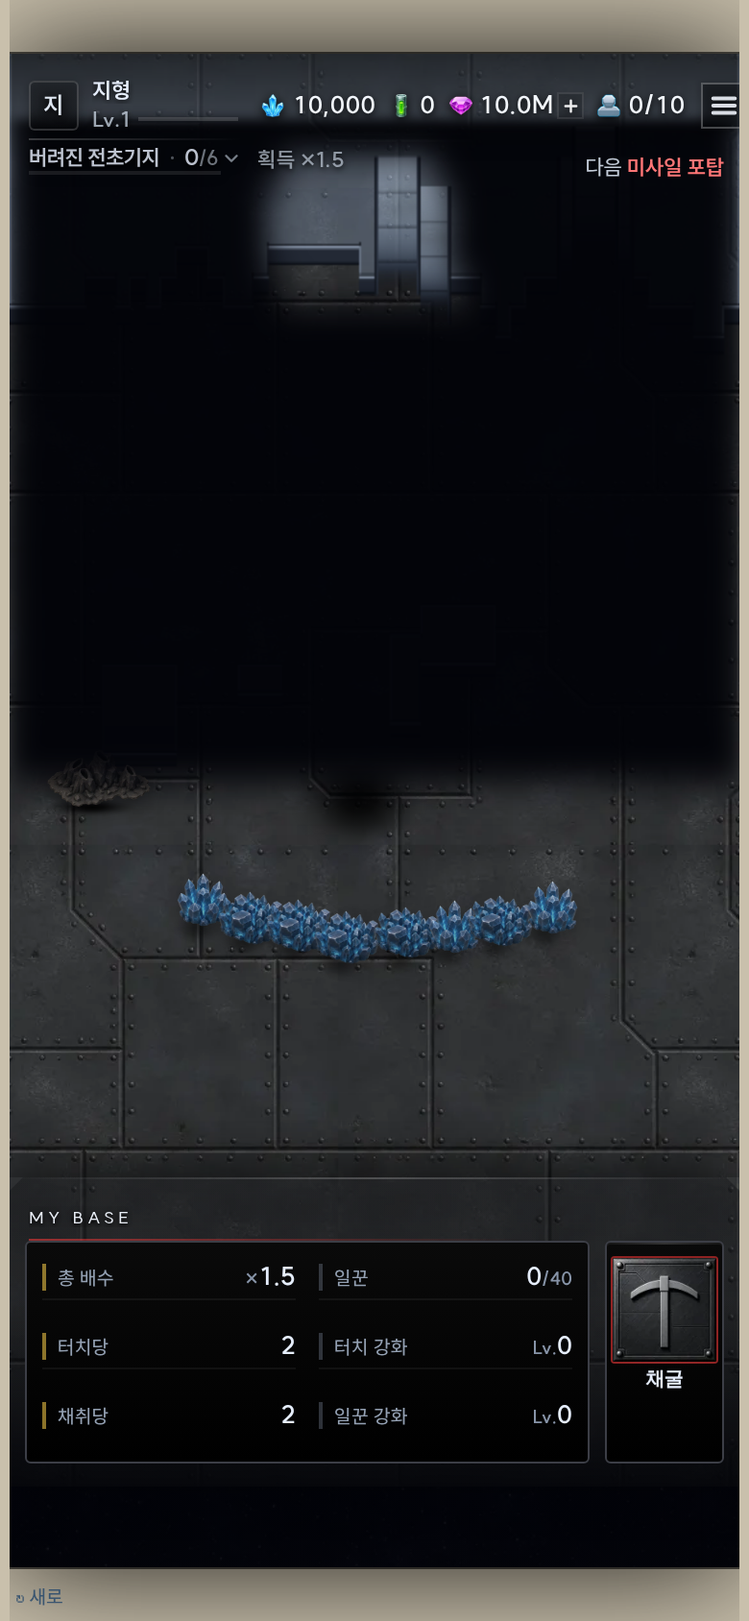
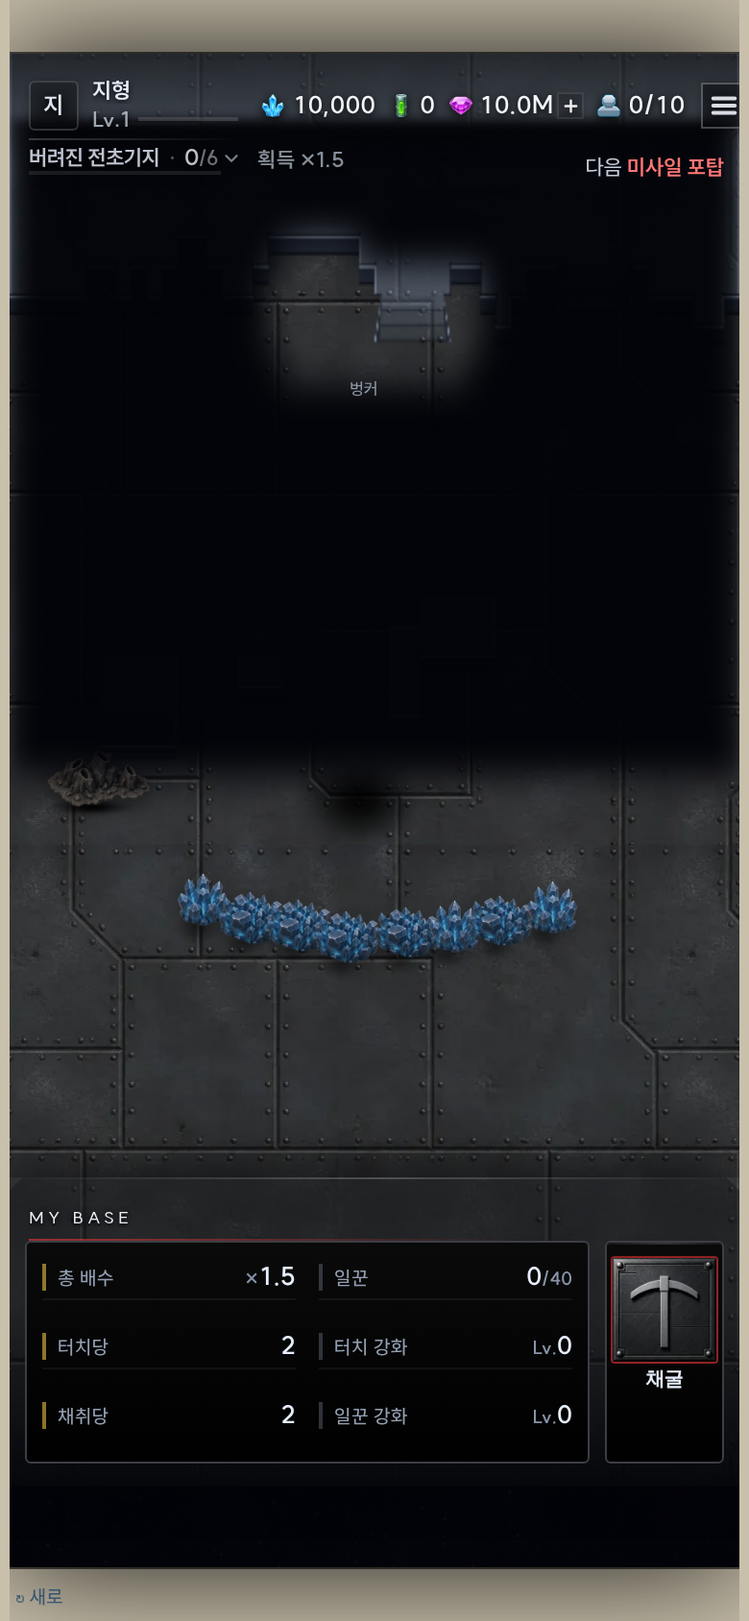
🚪 오르막을 다시 그렸다 — 「절벽에 난 틈」으로
사용자: 「오르막 디자인이 좀 별론데 … 4칸에 걸쳐서 올라가는게 아니고 1칸만에 바로」

■ 길이 4칸 → 1칸 (TERR_RAMP_H)
  입구 줄은 평평하게 고른다(base) — 고원 밑변이 계단이라 그냥 파면
  열마다 줄이 달라 옆벽이 어긋난다.

■ 그림을 절벽 선 **아래**에서 시작한다 (근본 원인)
  옛 그림은 오르막 칸의 **위** 모서리에서 시작해 고원 안으로 한 칸 올라와 있었다.
  고원과 색이 다른 것은 무엇이든 「고원에 올려놓은 상자」로 읽힌다 — 이걸 모르고
  세 번 헛돌았다(밝은 미끄럼틀 → 사다리 난간 → 흰 판).
  이제 오르막 칸의 **아래** 모서리(= 절벽 앞면이 시작될 자리)에서 시작해
  낮은 땅으로 apron + 0.9칸 내려간다.

■ 읽히게 하는 것 셋
  ① 단 셋 — 위가 밝고 아래로 어두워진다(「걸어 내려간다」의 유일한 신호)
  ② 단마다 밑의 어두운 홈 — 밝은 선을 그으면 사다리 가로대가 된다
  ③ 쐐기 옆벽 — 꼭대기는 폭 0, 아래로 벌어진다.
     비탈은 위에서 고원 높이라 벽이 없다. 폭이 일정한 띠는 밝은 평행선 둘이
     되어 사다리 난간으로 보였다.
  입구에서는 고원의 밝은 테를 걷어 내고 고원 윗면 값으로 메운다 —
  안 걷으면 밝은 선이 입구를 가로질러 「구멍에 뚜껑을 덮은」 꼴이 된다.

■ scripts/camp-ramp-pick.mjs (새 도구)
  진짜 바닥 타일 + 진짜 TERR_SKIN 값으로 오르막 안 여섯을 한 장에 붙인다.
  ⚠ 비교판은 게임과 같은 겹치기라야 한다 — 바닥과 지형을 한 캔버스에 그리면
  clearRect 가 바닥까지 지워 비탈이 검은 구멍으로 보인다.
  1차 비교판이 그래서 통째로 거짓이었고, 그 판으로 고른 안을 버렸다.

■ 스모크 — 주입 시험으로 두 문지기가 무는 것을 확인
  · TERR_RAMP_H 를 4 로 되돌림  → ✘ 「오르막이 4칸이다(tx=7)」
  · 입구 평탄화 제거            → ✘ 「입구가 들쭉날쭉하다(tx=22 줄 23 ≠ 22)」
  칸 수는 글자 그대로 1 로 잰다 — TERR_RAMP_H 로 재면 그 상수를 되돌려도
  같이 늘어나 늘 통과한다(자기 자신을 기준으로 재는 덫).
  전체 스모크 통과(lobby/game/sandbox/duo).

Claude-Session: https://claude.ai/code/session_01EtmtaHFCqqHiZ1fmbN5ZoQ

Changed region(s): [[0.3385, 0.0924, 0.6462, 0.2464]]

diff --git a/js/24-terrain.js b/js/24-terrain.js
@@ -41,10 +41,14 @@ const TERR_FACE_K   = 0.62;  // 절벽 앞면 높이 = 칸 높이 × 이 값
 const TERR_PLATEAU_Y1 = -0.13;
 // 🚪 램프 — 고원으로 올라가는 길. ⛔ 빼지 말 것: 3단계에서 절벽이 길을 막으면 램프가 유일한 통로다.
 const TERR_RAMP_W  = 5;      // 램프 폭(칸) — ⚠ 3 칸이면 지도 축척에서 **사다리**로 보인다(실측)
-const TERR_RAMP_H  = 4;      // 램프 길이(칸) — ⚠ 2~3 칸이면 비탈이 아니라 「끊긴 자리」로 보인다(실측)
+/* 🚪 **오르막은 한 칸 만에 올라간다**(2026-09-11 사용자 확정: 「4칸에 걸쳐서가 아니고 1칸만에 바로」).
+ *   ⭐ 그래서 길이가 아니라 **모양**으로 읽힌다 — 위가 좁고 아래로 벌어지는 **사다리꼴**이다(입구가 열린다).
+ *   ⛔ 여러 칸으로 늘려 「긴 비탈」로 되돌리지 말 것 — 고원을 그만큼 파먹어 적 기지 자리가 줄어든다. */
+const TERR_RAMP_H  = 1;      // 램프 길이(칸)
+const TERR_RAMP_TAPER = 0.10;   // 입구가 아래로 조금 벌어진다 — ⚠ 크면 「미끄럼틀」로 보인다(실측 0.17)
 const TERR_RAMP_N  = 2;      // 램프 개수
 const TERR_RAMP_GAP = 12;    // 램프끼리 최소 거리(칸) — ⚠ 없으면 둘이 붙어 나 「넓은 오르막 하나」로 보인다(실측)
-const TERR_RAMP_STEPS = 3;   // 비탈에 긋는 계단 선 수 — 작은 크기에서 「올라간다」를 읽게 하는 신호
+const TERR_RAMP_STEPS = 3;   // 비탈의 **단** 수 — 작은 크기에서 「걸어 내려간다」를 읽게 하는 유일한 신호
 /* 🧱 벽 — **적 기지와 내 격자 사이의 통로에만** 둔다.
  *   ⛔ 내 격자(techY0 = 0.18 아래)에는 절대 두지 말 것 — 건물을 짓는 자리다.
  *   ⛔ 적 기지 줄(CAMP_FOE_ROW · 맨 아래가 tower1 = +0.02)과 겹치지 말 것 —
@@ -101,9 +105,15 @@ function campTerrGen(dg, seed){
       if(rampAt.every(p => Math.abs(p - c0) >= TERR_RAMP_GAP)){ cx = c0; break; } }
     if(cx < 0) continue;                    // 자리를 못 찾으면 그냥 하나 덜 둔다(붙여 두지 않는다)
     rampAt.push(cx);
+    /* 📏 **오르막 자리는 고원 밑변을 평평하게 고른다.** 가장자리는 계단이라 열마다 밑변이 다른데,
+     *   거기 그대로 파면 비탈이 들쭉날쭉해 「입구」로 안 읽힌다. 가장 낮은 줄까지 채워 한 줄로 맞춘다. */
+    let base = -1;
     for(let tx = cx; tx < cx + TERR_RAMP_W && tx < C; tx++){
       let ty = py1; while(ty > py0 && !T.h[ty * C + tx]) ty--;              // 그 열의 실제 고원 밑변
-      for(let k = 0; k < TERR_RAMP_H && ty - k >= py0; k++){ const i2 = (ty - k) * C + tx; T.h[i2] = 1; T.r[i2] = 1; } } }
+      if(ty > base) base = ty; }
+    for(let tx = cx; tx < cx + TERR_RAMP_W && tx < C; tx++){
+      for(let ty = py0; ty <= base; ty++) T.h[ty * C + tx] = 1;             // 밑변을 그 줄까지 채운다
+      for(let k = 0; k < TERR_RAMP_H && base - k >= py0; k++){ const i2 = (base - k) * C + tx; T.r[i2] = 1; } } }
   // 🧱 벽 — 통로에 덩어리 몇 개
   const wy0 = Math.max(py1 + 2, campTerrRowAt(TERR_WALL_ZONE.y0)), wy1 = Math.min(W - 2, campTerrRowAt(TERR_WALL_ZONE.y1));
   const blobs = [];
@@ -293,36 +303,53 @@ function campTerrBake(){
     x.fillStyle = S.face; x.fillRect(tx * px, (ty + 1) * px, px, face);
     x.fillStyle = S.lip;  x.fillRect(tx * px, (ty + 1) * px, px, lip);                       // 윗입술 — 「여기서 떨어진다」
     x.fillStyle = S.line; x.fillRect(tx * px, (ty + 1) * px + face - lip, px, lip); }        // 발치 그늘
-  /* 🚪 **오르막** — 절벽을 파고든 비탈.
-   *   ⛔ 「절벽만 안 그리기」로 두지 말 것 — 끊긴 자리가 **구멍**으로 보인다(2026-09-11 실측 · 확대 사진).
-   *   ⭐ 읽히게 하는 것은 셋이다: ① 위가 밝고 아래로 **사라지는 면**(내려간다) ② **계단 선**
-   *     (작은 크기에서 「걸어 올라간다」를 말하는 유일한 신호) ③ **옆벽**(절벽을 파고들었다는 증거).
-   *   ⚠ 고원 칠을 먼저 **걷어 낸다**(clearRect) — 안 걷으면 비탈 아래쪽이 고원 색으로 남아 평평해 보인다. */
-  { const S = campTerrSkin('ramp'), apron = Math.round(px * TERR_FACE_K), lip = Math.max(1, px * 0.10);
-    const isR = (tx2, ty2) => tx2 >= 0 && tx2 < C && ty2 >= 0 && ty2 < W && T.r[ty2 * C + tx2] > 0;
+  /* 🚪 **오르막** — 절벽에 난 **틈**이다. 고원 끝에서 낮은 땅으로 내려간다.
+   *   ⛔⛔ 절벽 선 **위**(고원 안)에서 그리기 시작하지 말 것 — 고원과 다른 것은 무엇이든
+   *     「고원에 올려놓은 상자」로 읽힌다(2026-09-11 실측 · `scripts/camp-ramp-pick.mjs` 1차 비교판).
+   *     그래서 그림은 **오르막 칸의 아래 모서리**(= 절벽 앞면이 시작될 자리)에서 시작한다.
+   *   ⭐ 읽히게 하는 것은 셋이다: ① **단 셋**(위가 밝고 아래로 어두워진다 — 「걸어 내려간다」를 말하는
+   *     유일한 신호) ② 단마다 밑에 **어두운 홈**(밝은 선을 쓰면 사다리 가로대가 된다)
+   *     ③ **쐐기 옆벽**(위는 폭 0 · 아래로 벌어진다 — 고원을 깎아 낸 자국).
+   *   ⚠ 고원의 **테(밝은 입술)를 입구에서 걷어 낸다** — 안 걷으면 밝은 선이 입구를 가로질러 막아
+   *     「구멍에 뚜껑을 덮은」 꼴이 된다. 걷은 자리는 고원 윗면 값으로 메워 고원이 입구까지 이어지게 한다. */
+  { const SH = campTerrSkin('hi');
+    const apron = Math.round(px * TERR_FACE_K), lip = Math.max(1, px * 0.09);
+    const eUp = Math.max(2, Math.round(px * 0.12)) + 1;   // 오토타일 테 두께(campTerrSheet 의 E)
+    /* 오르막은 **가로로 붙은 열 묶음**이 하나다 — 열마다 따로 그리면 옆벽이 열마다 선다. */
+    const gs = [];
     for(let tx = 0; tx < C; tx++){
       let t0 = -1, b0 = -1;
       for(let ty = 0; ty < W; ty++) if(T.r[ty * C + tx]){ if(t0 < 0) t0 = ty; b0 = ty; }
       if(t0 < 0) continue;
-      const X = tx * px, Y = t0 * px, HH = (b0 + 1 - t0) * px + apron;
-      x.clearRect(X, Y, px, HH);
-      /* 위는 고원 색, 가운데부터 **절벽 면 색으로 어두워지다** 아래에서 사라진다 = 내려가는 비탈.
-       *   ⛔ 위아래를 다 밝게 두지 말 것 — 평평한 판으로 보인다(실측: 첫 시도가 그랬다). */
-      const g = x.createLinearGradient(0, Y, 0, Y + HH);
-      g.addColorStop(0, S.edge); g.addColorStop(0.38, S.top);
-      g.addColorStop(0.80, S.face); g.addColorStop(1, 'rgba(0,0,0,0)');
-      x.fillStyle = g; x.fillRect(X, Y, px, HH);
-      /* 🪜 계단 — **어두운 홈**이다(밝은 선을 그으면 사다리로 보인다 · 2026-09-11 실측). */
-      x.fillStyle = S.line;
-      for(let k = 1; k <= TERR_RAMP_STEPS; k++){
-        x.globalAlpha = 0.30 + 0.30 * (k / TERR_RAMP_STEPS);           // 아래 계단이 진하다 = 그늘이 깊다
-        x.fillRect(X, Y + (HH * k) / (TERR_RAMP_STEPS + 1), px, lip * 0.8); }
-      x.globalAlpha = 1;
-      // 옆벽 — 절벽 면과 **같은 색**이라야 「파고든 홈」으로 읽힌다(밝은 테는 사다리 난간이 된다)
-      if(!isR(tx - 1, t0)) { x.fillStyle = S.face; x.fillRect(X, Y, lip * 2.2, HH);
-                             x.fillStyle = S.line; x.fillRect(X, Y, lip * 0.8, HH); }
-      if(!isR(tx + 1, t0)) { x.fillStyle = S.face; x.fillRect(X + px - lip * 2.2, Y, lip * 2.2, HH);
-                             x.fillStyle = S.line; x.fillRect(X + px - lip * 0.8, Y, lip * 0.8, HH); } } }
+      const g0 = gs[gs.length - 1];
+      if(g0 && g0.x1 === tx - 1 && g0.t === t0 && g0.b === b0) g0.x1 = tx;
+      else gs.push({ x0:tx, x1:tx, t:t0, b:b0 }); }
+    for(const g of gs){
+      const X0 = g.x0 * px, X1 = (g.x1 + 1) * px;
+      const Y = (g.b + 1) * px, HH = apron + px * 0.9;    // 절벽 앞면 자리 + 낮은 땅으로 반 칸 더
+      const ins = (X1 - X0) * TERR_RAMP_TAPER, wq = Math.max(2, px * 0.34);
+      x.save();
+      x.beginPath();                                      // 위는 좁고(고원과 만나는 목) 아래로 벌어진다
+      x.moveTo(X0 + ins, Y - eUp); x.lineTo(X1 - ins, Y - eUp);
+      x.lineTo(X1, Y + HH); x.lineTo(X0, Y + HH); x.closePath();
+      x.clip();
+      x.clearRect(X0, Y - eUp, X1 - X0, HH + eUp);
+      x.fillStyle = SH.top; x.fillRect(X0, Y - eUp, X1 - X0, eUp);   // 고원이 입구까지 이어진다
+      for(let k = 0; k < TERR_RAMP_STEPS; k++){           // 🪜 단 — 위가 밝고 아래로 어두워진다
+        const t0 = k / TERR_RAMP_STEPS, t1 = (k + 1) / TERR_RAMP_STEPS;
+        x.fillStyle = 'rgba(140,162,196,' + (0.26 - 0.08 * k).toFixed(3) + ')';
+        x.fillRect(X0, Y + HH * t0, X1 - X0, HH * (t1 - t0));
+        x.fillStyle = 'rgba(8,11,17,.46)';                // 단 밑의 그늘 홈
+        x.fillRect(X0, Y + HH * t1 - lip * 0.85, X1 - X0, lip * 0.85); }
+      x.restore();
+      const wedge = (w2, col) => {                        // 옆벽 — 꼭대기는 폭 0, 아래로 벌어진다
+        for(const left of [true, false]){
+          const d = left ? 1 : -1, xa = left ? X0 + ins : X1 - ins, xb = left ? X0 : X1;
+          x.fillStyle = col;
+          x.beginPath(); x.moveTo(xa, Y - eUp); x.lineTo(xb + d * w2, Y + HH); x.lineTo(xb, Y + HH);
+          x.closePath(); x.fill(); } };
+      wedge(wq, SH.face);                                 // 깎인 면
+      wedge(lip * 0.9, SH.lip); } }                       // 윗모서리 — 빛을 받는다
   const wallAt = (tx, ty) => inB(tx, ty) && T.w[ty * C + tx] > 0;
   layer(wallAt, sheets.wall);
   // 🧱 벽도 앞면을 갖는다 — 평평한 판은 「못 지나간다」로 안 읽힌다(2026-09-10 실측)

diff --git a/test/smoke.js b/test/smoke.js
@@ -7946,16 +7946,21 @@ async function groupLobby(){
         assert(ramp>=0,'램프가 통로가 아니다 — 올라갈 길이 사라진다');
         /* 🚪 **오르막은 절벽을 「잇는」 비탈이다**(2026-09-11 사용자: 「언덕으로 올라가는 오르막도 만들어야해」).
          *   ⛔ 고원 한가운데 뚫린 구멍이 되면 안 된다 — 아래 끝이 **저지에 닿아야** 올라가는 길이다.
-         *   ⛔ 짧게(2~3칸) 되돌리지 말 것: 지도 축척에서 비탈이 아니라 「끊긴 자리」로 보인다(실측). */
-        { const cols=[];
+         *   📏 **한 칸 만에 올라간다**(2026-09-11 사용자 확정: 「4칸에 걸쳐서 올라가는게 아니고 1칸만에」).
+         *     ⚠ 아래 1 은 **글자 그대로 쓴 설계값**이다 — `TERR_RAMP_H` 로 재면 그 상수를 4 로 되돌려도
+         *     같이 늘어나 늘 통과한다(자기 자신을 기준으로 재는 덫 · 2026-09-11 주입 시험).
+         *   🚪 그리고 **입구는 평평하다** — 그림이 열 묶음 하나를 사다리꼴 + 쐐기 옆벽으로 그리므로
+         *     열마다 줄이 다르면 옆벽이 계단처럼 어긋난다(`campTerrGen` 이 base 로 고른다). */
+        { const cols=[], botOf={};
           for(let tx=0;tx<C2;tx++){ let run=0, bot=-1, runs=0;
             for(let ty=0;ty<W2;ty++){ if(T.r[ty*C2+tx]){ run++; bot=ty; } else { if(run){ runs++; } run=0; } }
             if(run) runs++;
             if(bot<0) continue;
-            cols.push(tx);
+            cols.push(tx); botOf[tx]=bot;
             assert(runs===1,'한 열에 오르막이 '+runs+'토막이다(tx='+tx+') — 비탈은 이어져야 한다');
             let len=0; for(let ty=bot;ty>=0&&T.r[ty*C2+tx];ty--) len++;
-            assert(len>=TERR_RAMP_H,'오르막이 '+len+'칸뿐이다(tx='+tx+') — '+TERR_RAMP_H+'칸이어야 비탈로 읽힌다');
+            assert(len===1,'오르막이 '+len+'칸이다(tx='+tx+') — **한 칸 만에** 올라가기로 했다(사용자 확정)');
+            assert(len===TERR_RAMP_H,'오르막 칸 수('+len+')가 TERR_RAMP_H('+TERR_RAMP_H+')와 다르다 — 표와 생성기가 어긋났다');
             assert(bot+1<W2 && !T.h[(bot+1)*C2+tx],
               '오르막 아래가 저지가 아니다(tx='+tx+') — 고원 한가운데 뚫린 구멍이다'); }
           /* ⚠ **자기 자신을 기준으로 재지 말 것**(2026-09-11 주입 시험에서 둘이 안 물었다):
@@ -7969,7 +7974,10 @@ async function groupLobby(){
             assert(w2>=4,'오르막 폭이 '+w2+'칸뿐이다 — 지도 축척에서 사다리로 보인다');
             assert(w2<=TERR_RAMP_W,'오르막 폭이 '+w2+'칸이다 — 둘이 붙어 하나로 보인다'); }
           for(let i=1;i<grp.length;i++) assert(grp[i][0]-grp[i-1][1] >= TERR_RAMP_GAP-TERR_RAMP_W,
-            '오르막 둘이 '+(grp[i][0]-grp[i-1][1])+'칸 거리로 붙었다 — 하나로 보인다'); }
+            '오르막 둘이 '+(grp[i][0]-grp[i-1][1])+'칸 거리로 붙었다 — 하나로 보인다');
+          for(const g2 of grp){ const b0=botOf[g2[0]];
+            for(let tx=g2[0];tx<=g2[1];tx++) assert(botOf[tx]===b0,
+              '오르막 입구가 들쭉날쭉하다(tx='+tx+' 줄 '+botOf[tx]+' ≠ '+b0+') — 옆벽이 계단처럼 어긋난다'); } }
         assert(rim>=0,'절벽 테두리가 하나도 안 막힌다');
         // 레인 밖은 못 가는 자리다(campG2W 가 접는다) → 마스크가 막아야 한다
         { let outOpen=0;

diff --git a/CLAUDE.md b/CLAUDE.md
@@ -64,13 +64,13 @@
   - 📐 **격자는 안개에서 받아 온다**(`G.tech.fog` 의 cols·rows·wy0) — ⛔ 따로 계산하지 말 것: 시야 차단이 `f.height` 를 읽으므로 두 격자가 어긋나면 「보이는 절벽」과 「가리는 절벽」이 한 칸씩 밀린다. ⛔ 서명(`CAMPT.sig`)에 `campFogTop()` 같은 흔들리는 값을 넣지 말 것 — **매 프레임 다시 굽는다**(1200×2000 캔버스 · 실측: 스모크가 통째로 멎었다).
   - 🎨 조각은 **네 조각 오토타일**이다(한 칸을 1/4씩 · 이웃 셋만 본다 · 그림 12칸으로 256가지). ⛔ 47조각 비트마스크·회전 재활용으로 되돌리지 말 것. 지형은 안 변하니 **한 번 굽고**(`campTerrBake`) 매 프레임엔 한 장만 그린다.
   - ⚠ **고원 윗면은 반투명**이다 — 지금 바닥은 배경 그림 한 장이고 거기 고원이 이미 그려져 있다(ART.md §17). 불투명하게 채우면 커다란 회청색 판이 된다(실측). 바닥이 타일로 바뀌기 전에는 되돌리지 말 것.
-  - 🚪 **오르막(램프)은 유일한 통로다**(⛔ 빼지 말 것) — 그림도 비탈로 읽혀야 한다: ⛔ 「절벽만 안 그리기」로 두면 **구멍**으로 보인다(2026-09-11 실측) · 세 가지가 함께 있어야 한다(위가 밝고 아래로 사라지는 면 · **어두운** 계단 홈(밝은 선 = 사다리) · 절벽 면과 **같은 색**의 옆벽) · 📐 폭 5칸 · 길이 4칸 · 둘 사이 12칸 이상(전부 실측 · 스모크가 잰다) · 🚧 **길이 막히면 안 된다**(`campTerrConnected`) · 🧱 벽은 **0.05~0.16 띠에만**(내 격자·적 기지 줄과 겹치면 건물 위에 선다) · ⛰ 고원 밑변은 **계단**(열마다 따로 굴리면 빗살이 된다).
+  - 🚪 **오르막(램프)은 유일한 통로다**(⛔ 빼지 말 것) — 📐 폭 5칸 · **길이 1칸**(2026-09-11 사용자 확정: 「4칸에 걸쳐서 올라가는게 아니고 1칸만에 바로」) · 둘 사이 12칸 이상 · 입구 줄은 **평평**(전부 실측 · 스모크가 잰다) · 🎨 그림은 **「절벽에 난 틈」**이다 — 오르막 칸의 **아래 모서리**에서 시작해 낮은 땅으로 내려간다. ⛔⛔ 절벽 선 **위**(고원 안)에서 그리지 말 것: 고원과 색이 다른 것은 무엇이든 **「고원에 올려놓은 상자」**로 읽힌다(2026-09-11 에 이걸로 세 번 헛돌았다 — 밝은 미끄럼틀 → 사다리 난간 → 흰 판) · 셋이 함께 있어야 한다(**단 셋**(위가 밝고 아래로 어두워진다) · 단마다 밑의 **어두운 홈**(밝은 선 = 사다리 가로대) · **쐐기 옆벽**(위는 폭 0 · 아래로 벌어진다 — ⛔ 폭이 일정한 띠는 사다리 난간이 된다)) · ⚠ 입구에서 고원의 **밝은 테를 걷어 낼 것**(안 걷으면 구멍에 뚜껑을 덮은 꼴) · 🎬 고르는 도구는 **`scripts/camp-ramp-pick.mjs`**(⚠ 비교판도 게임과 **같은 겹치기**라야 한다 — 한 캔버스에 그리면 `clearRect` 가 바닥까지 지워 **검은 구멍**으로 보인다: 1차 비교판이 통째로 거짓이었다) · 🚧 **길이 막히면 안 된다**(`campTerrConnected`) · 🧱 벽은 **0.05~0.16 띠에만**(내 격자·적 기지 줄과 겹치면 건물 위에 선다) · ⛰ 고원 밑변은 **계단**(열마다 따로 굴리면 빗살이 된다).
   - 👁 **시야 차단은 배선됐다**(2026-09-10 2단계) — 막는 일은 엔진(`_fogReveal`)이 이미 하고 있었고, 새로 만든 것은 **안개의 `f.height` 를 채우는 함수 둘**뿐이다(`campTerrHeightFill` 훅 ← `techFogInit` · `campTerrPushHeight`). ⛔ 차단 규칙을 새로 짜지 말 것 · ⛔ 훅을 「sync 만 부르고 끝」으로 줄이지 말 것(안개는 방금 새로 파여 높이가 0인데 `techFogInit` 이 **바로** 시야를 계산한다 → 첫 시야가 절벽을 넘어 고원 건물이 `b.vis` 로 켜진다) · 🚪 **램프는 낮은 쪽으로 친다**(⛔ 고지로 치면 올라갈 길이 어둠에 잠긴다) · 🧹 **집으로 오면 고저를 걷는다**(⚠ 우리가 심은 것일 때만 — 관리자 `TECH_HILL` 을 지우면 안 된다).
   - 🚶 **길막기는 「전장 흐름장」이다**(2026-09-11 3단계 · `campTerrMask`→`campTerrFlow`→`campTerrWay` → `campMove` 가 **목표만 바꾼다**). ⛔⛔ **지형을 `_techNavRects` 에 얹는 방식으로 되돌리지 말 것** — `_techFindPath` 는 기지 격자 전용이라 `p[1]>0.12` 로 노드를 걸러 **격자 위 지형의 꼭짓점을 전부 버린다**(장애물은 보되 돌아갈 모서리가 안 생겨 **아군이 갇힌다** · A/B 6판 중 2판). 지형은 흐름장, 건물은 A\* — ⛔ 하나로 합치지 말 것 · ⛔ 밀어내기를 더하지 말 것(2026-09-05 갇힘의 원인).
     - ⚠ **레인 밖(gx 0.06~0.94 · gy −0.431~0.62 밖)을 반드시 막을 것** — 전장이 못 가는 자리다(실측: 유닛이 30초간 못 가는 칸으로 가라는 지시를 받고 안 움직였다). 연결성 검사도 **레인 안에서**(`campTerrLaneRows` · ⛔ 「gy 가 든 행」으로 잡으면 한 행 어긋나 300/300 실패한다).
     - ⚠ 「막힌 칸을 밟은 프레임」은 **0~1 이 정상**(밀어내기를 안 하므로) — 우회를 끄면 3~8 이다. 스모크가 그 차이로 배선을 잰다.
   - 🧱 **바닥은 타일이다**(2026-09-11 사용자 확정 「전면 타일로」 · 표는 `CAMP_TILE`(19-camp.js) 하나 · `assets/tiles/camp_*.webp`). ⛔ 그림 한 장으로 되돌리지 말 것(확대하면 뭉개지고 3D 와 축척이 안 맞았다) · ⭐ 배경 변수는 `--campBg` 그대로 쓰고 **까는 방식만** `#phone.tileFloor` 로 가른다(⛔ 두 번째 변수 금지) · 📐 크기는 **px 180**(⛔ 격자 한 칸 8px 에 맞추면 무늬가 통째로 뭉갠다 · 실측) · 🌑 **톤 낮추기(.60)를 걸지 말 것**(밝은 그림용 값이라 타일엔 검은 여백이 된다 — 밝기는 CSS 한 줄로 조절) · ⚠ 바닥이 평평해지므로 **지형층 고원 색이 진해진다**(`TERR_HI_TOP.tile` · ⛔ 옛 그림 던전에서 진한 값으로 되돌리지 말 것) · 🩹 새 타일은 **`scripts/tile-import.mjs --flat`** 으로 들인다(세로 밝기 기울기를 나눈다 — 안 하면 가로 줄무늬).
-  - 🎬 **손댔으면 `node scripts/camp-terr-shot.mjs`(지형) · `node scripts/camp-floor-pick.mjs`(바닥 크기·밝기) 로 눈으로 볼 것.**
+  - 🎬 **손댔으면 `node scripts/camp-terr-shot.mjs`(지형) · `node scripts/camp-ramp-pick.mjs`(오르막 안 고르기) · `node scripts/camp-floor-pick.mjs`(바닥 크기·밝기) 로 눈으로 볼 것.**
 - 🧱 **밸런스를 잴 땐 「도달 던전·라운드」를 쓰지 말 것**(2026-09-08 실측) — 한 팔 안의 편차가 팔 사이 차이만큼
   크다. **번 돈**이 훨씬 안정적인 자다. 전략이 갈리는지는 **`node scripts/camp-strat.mjs`**(전략 프리셋 + 갈림도)로 잰다.
   ⚠ 옛 「구매 정책 A/B/C」는 **전략이 아니다**(셋 다 같은 ROI 순위) — 그걸로 잰 비교는 전부 같은 전략을 견준 것이다.

diff --git a/ARCHITECTURE.md b/ARCHITECTURE.md
@@ -95,12 +95,24 @@
 ⛔ `Math.random` 금지 — 저장·복원하면 지형이 바뀌고 스모크가 못 잰다.
 - 🏔 고원은 **지도 위 끝부터** `TERR_PLATEAU_Y1` 까지다. ⛔ 북쪽 경계를 만들지 말 것(가로줄 절벽이 「벽」으로 보인다).
 - ⛰ 아래 가장자리는 **계단**이다(한 칸씩만 오르내린다). ⛔ 열마다 따로 굴리지 말 것 — 1칸짜리 이·저가 번갈아 나와 **빗살**이 된다(실측).
-- 🚪 **오르막(램프)** — 절벽이 길을 막으므로 **유일한 통로**다(⛔ 빼지 말 것). 그림도 「비탈」로 읽혀야 한다:
-  ⛔ 절벽만 안 그리는 식으로 두지 말 것 — 끊긴 자리가 **구멍**으로 보인다(2026-09-11 실측).
-  읽히게 하는 것은 셋이다 — ① 위가 밝고 아래로 **사라지는 면** ② **어두운 계단 홈**(밝은 선을 그으면
-  사다리로 보인다) ③ **절벽 면과 같은 색의 옆벽**(파고들었다는 증거). 고원 칠은 먼저 `clearRect` 로 걷는다.
-  📐 폭 **5칸**(3칸은 사다리로 보인다) · 길이 **4칸**(2~3칸은 「끊긴 자리」) · 둘 사이 **12칸 이상**
-  (붙으면 「넓은 오르막 하나」가 된다) — 전부 실측으로 잡았고 스모크가 잰다.
+- 🚪 **오르막(램프)** — 절벽이 길을 막으므로 **유일한 통로**다(⛔ 빼지 말 것).
+  📐 폭 **5칸**(3칸은 사다리로 보인다) · 길이 **1칸**(2026-09-11 사용자 확정: 「4칸에 걸쳐서 올라가는게
+  아니고 1칸만에 바로」) · 둘 사이 **12칸 이상**(붙으면 「넓은 오르막 하나」가 된다) · 입구 줄은
+  **평평하다**(`base` — 가장자리가 계단이라 그냥 파면 들쭉날쭉해 옆벽이 어긋난다). 스모크가 넷 다 잰다.
+
+  **그림은 「절벽에 난 틈」이다** — 오르막 칸의 **아래 모서리**(= 절벽 앞면이 시작될 자리)에서 그리기
+  시작해 낮은 땅으로 `apron + 0.9칸` 내려간다.
+  ⛔⛔ 절벽 선 **위**(고원 안)에서 시작하지 말 것 — 고원과 색이 다른 것은 무엇이든 **「고원에 올려놓은
+  상자」**로 읽힌다. 2026-09-11 에 이걸로 세 번 헛돌았다(밝은 미끄럼틀 → 사다리 난간 → 흰 판).
+  읽히게 하는 것은 셋이다 — ① **단 셋**(위가 밝고 아래로 어두워진다 · 「걸어 내려간다」를 말하는 유일한
+  신호) ② 단마다 밑에 **어두운 홈**(밝은 선을 그으면 사다리 가로대가 된다) ③ **쐐기 옆벽**(꼭대기는 폭 0,
+  아래로 벌어진다 — 비탈이 위에서는 고원 높이라 벽이 없다. ⛔ 폭이 일정한 띠로 그리지 말 것: 평행한 두
+  밝은 선이 되어 사다리 난간으로 보인다).
+  ⚠ 입구에서는 고원의 **밝은 테를 걷어 내고**(`eUp`) 그 자리를 고원 윗면 값으로 메운다 — 안 걷으면 밝은
+  선이 입구를 가로질러 「구멍에 뚜껑을 덮은」 꼴이 된다.
+  🎬 고르는 도구는 **`scripts/camp-ramp-pick.mjs`**(안 여섯을 한 장에). ⚠ 비교판은 게임과 **같은 겹치기**
+  라야 한다 — 바닥과 지형을 한 캔버스에 그리면 `clearRect` 가 바닥까지 지워 비탈이 **검은 구멍**으로
+  보인다(1차 비교판이 통째로 거짓이었다).
 - 🧱 벽은 **0.05 ~ 0.16 띠**에만. ⛔ 내 격자(0.18↓)·적 기지 줄(`CAMP_FOE_ROW` 맨 아래 +0.02)과 겹치지 말 것(실측: 병영 자리에 벽이 났다).
 - 🚧 **길이 막히면 안 된다**(`campTerrConnected` · flood fill). 막혔으면 마지막 덩어리부터 걷어 낸다 —
   릴레이 던전은 적이 나한테 와야 성립한다.
